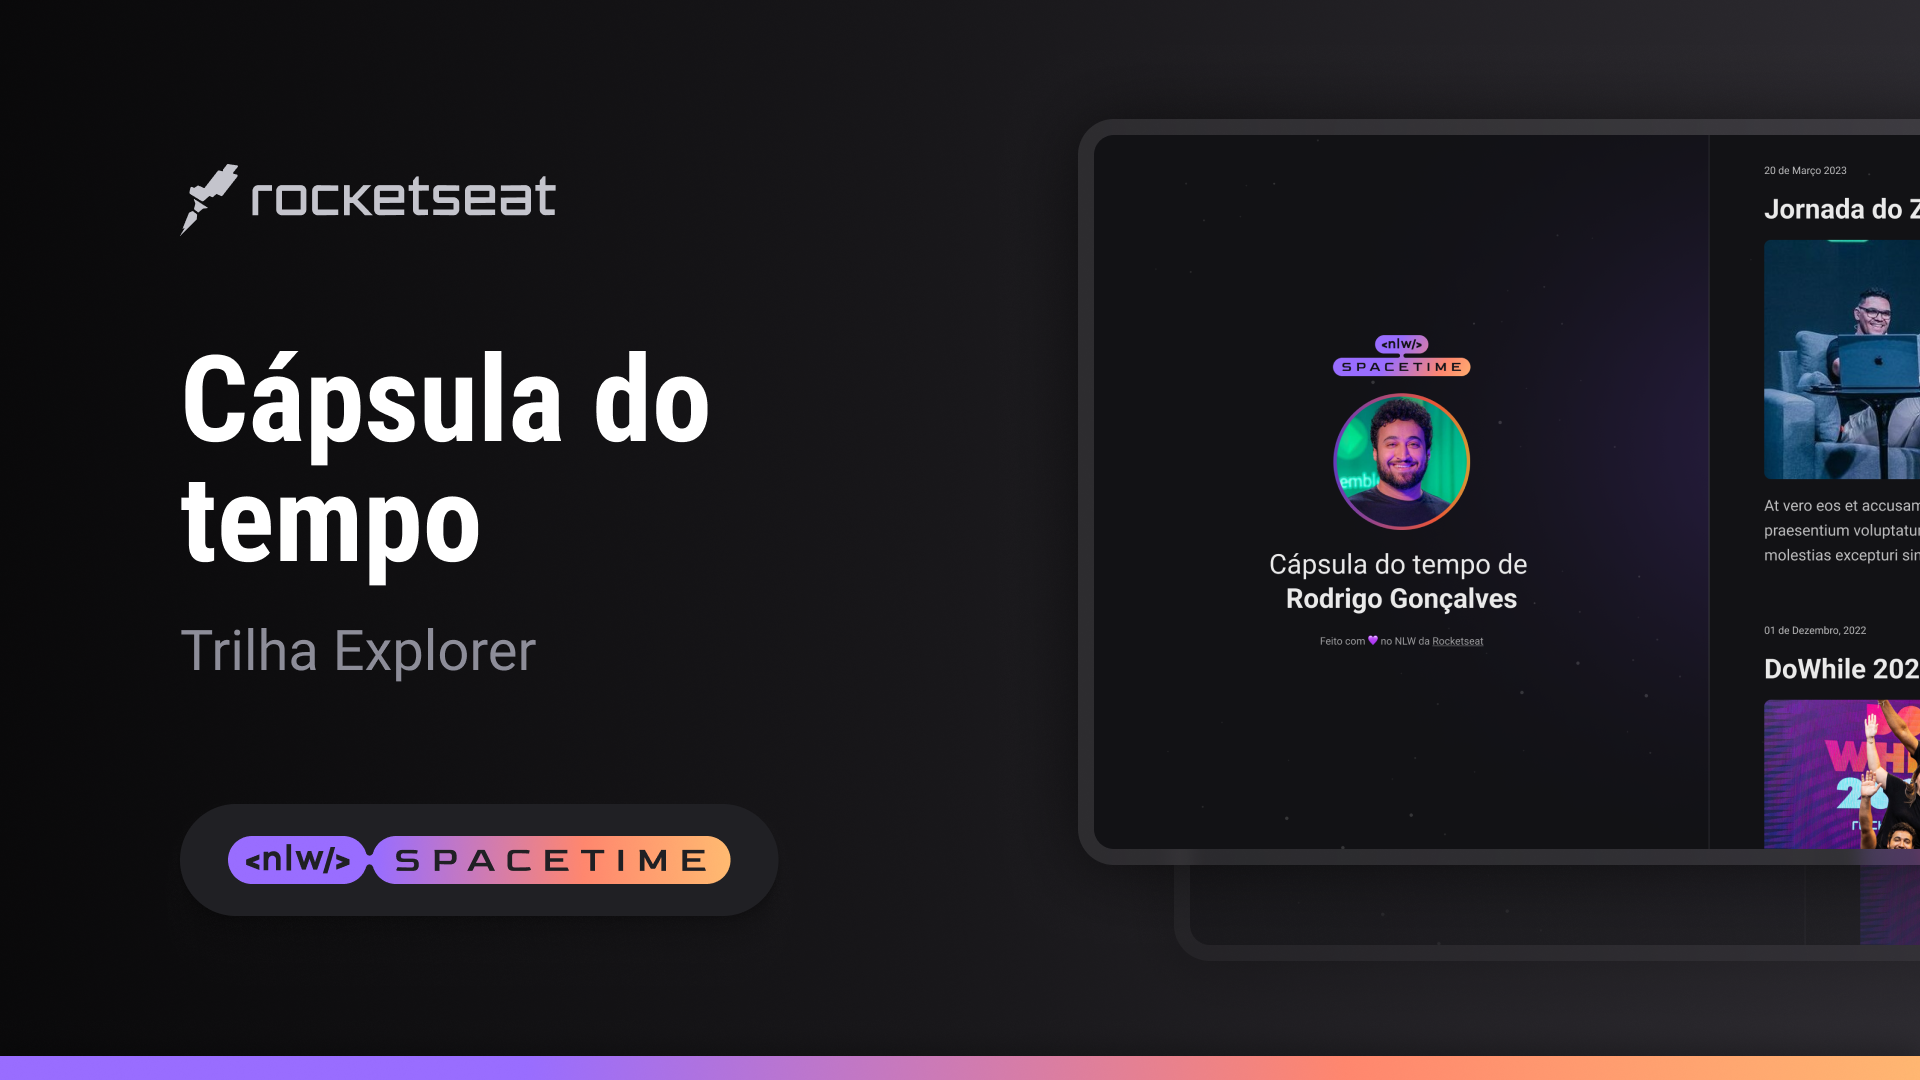
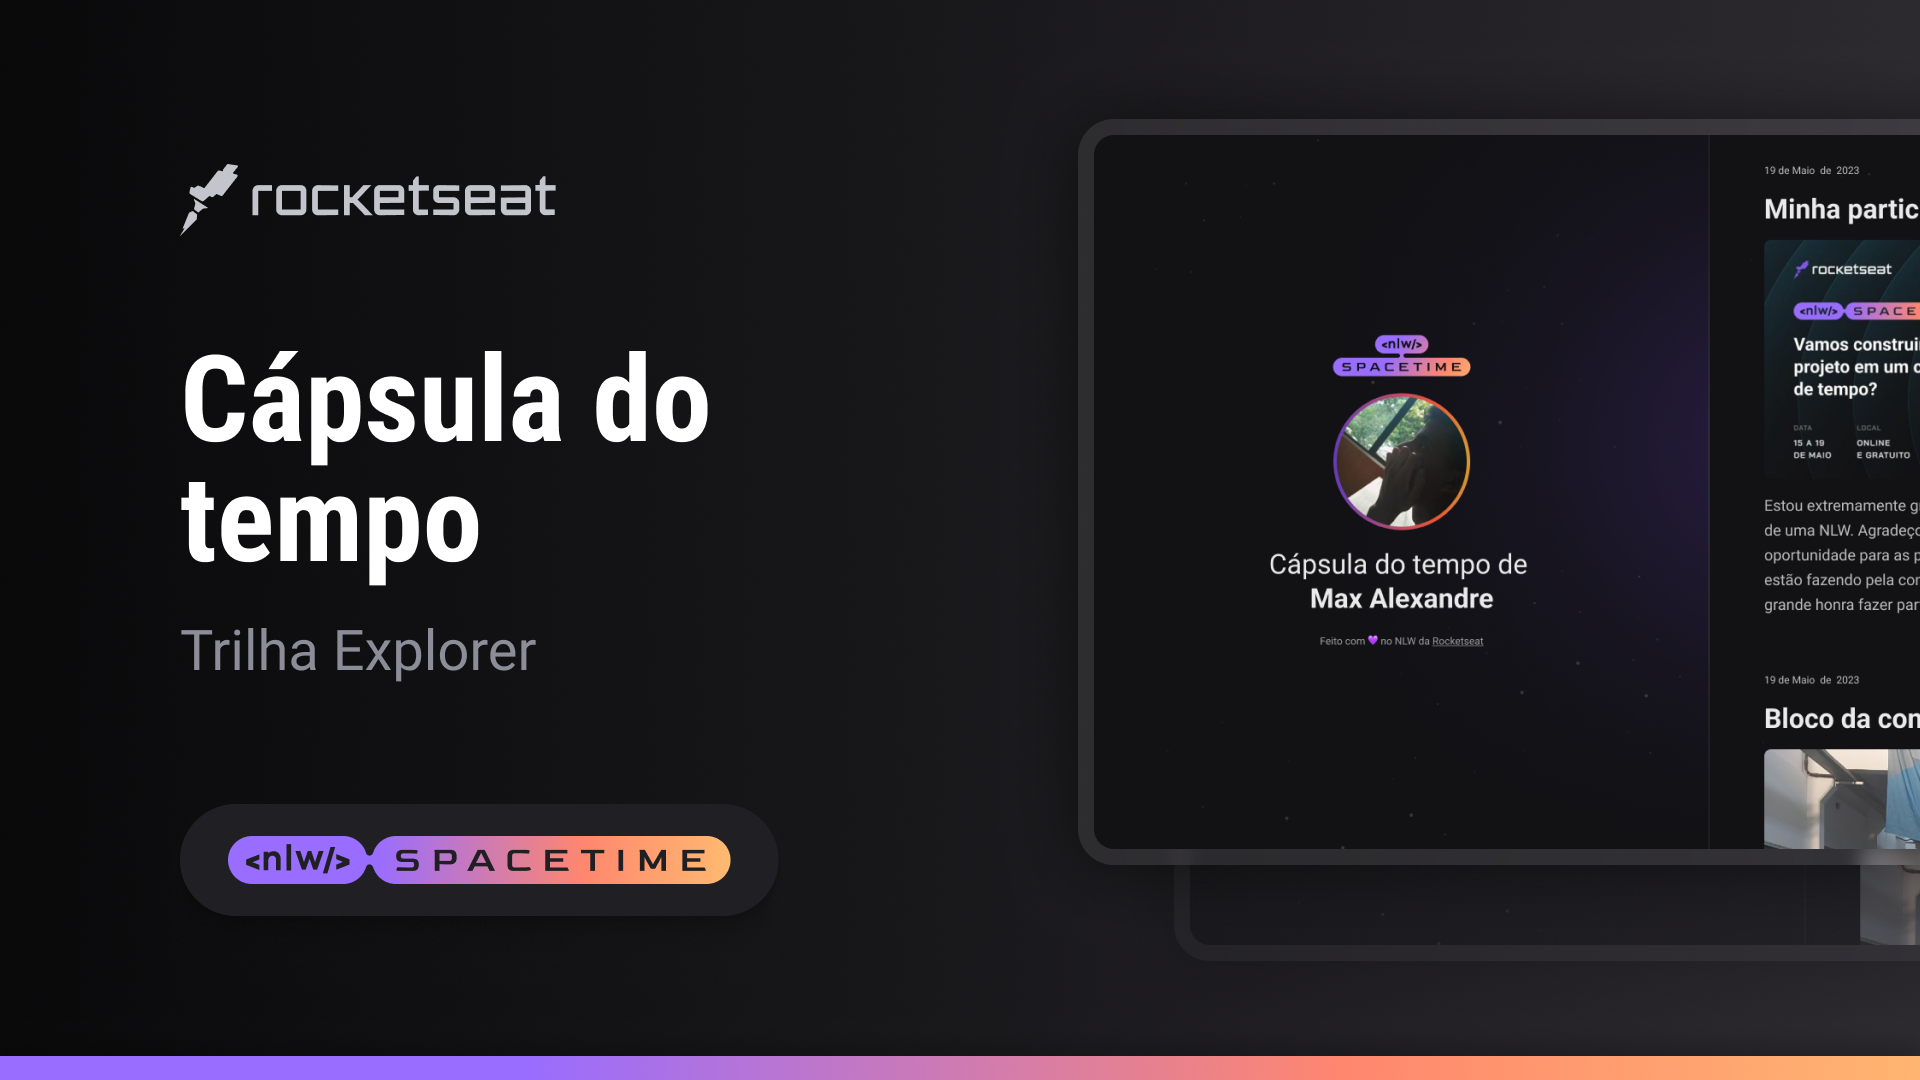
Adding items to the timeline

Changed region(s): [[0.9062, 0.1528, 1.0, 0.8861], [0.6875, 0.3667, 0.7812, 0.4889], [0.6562, 0.55, 0.7812, 0.5806]]

diff --git a/index.html b/index.html
@@ -21,7 +21,7 @@
   <body>
     <aside>
       <img src="./assets/logo.svg" alt="Logo NLW Spacetime" />
-      <img src="./assets/me.jpg" alt="Foto do Rodrigo" />
+      <img src="./assets/me.jpg" alt="it's me Max" />
 
       <p>
         Cápsula do tempo de <br />
@@ -39,49 +39,46 @@
     </aside>
     <nav>
       <div class="memory">
-        <small>16 de Maio de 2023</small>
-        <h1>Jornada do Zero à Primeira Vaga</h1>
+        <small>19 de Maio de 2023</small>
+        <h1>Minha participação na NLW</h1>
         <a
-          href="https://www.youtube.com/watch?v=3nz5HkUJaVU"
+          href="https://rocketseat.com.br/nlw/convite/max-29365"
           target="_blank"
-          aria-label="Assistir ao vídeo da Jornada do Zero à Primeira Vaga"
+          aria-label="link para inscrição na nlw"
         >
           <div>
-            <img src="./assets/jornada.png" alt="Professores da Rocketseat" />
+            <img src="./assets/nlw.jpg" alt="NLW Rocketseat" />
           </div>
         </a>
         <p>
-          Lorem ipsum, dolor sit amet consectetur adipisicing elit. Beatae,
-          repellat, architecto sed sunt asperiores officiis eum libero deserunt
-          provident corporis, optio quidem. Rem quibusdam magni possimus
-          delectus deserunt esse ipsum.
+          Estou extremamente grato por ter participado da minha segunda edição
+          de uma NLW. Agradeço imensamente à Rockseat por proporcionar essa
+          oportunidade para as pessoas. Tenho certeza de que o trabalho que eles
+          estão fazendo pela comunidade é de imenso valor e ajuda. Foi uma
+          grande honra fazer parte dessa edição.
         </p>
       </div>
       <div class="memory">
-        <small>16 de Maio de 2023</small>
+        <small>19 de Maio de 2023</small>
         <h1>Bloco da computação na UFT</h1>
         <div>
           <img src="./assets/uft.jpeg" alt="Bloco da computação na UFT" />
         </div>
         <p>
-          Lorem ipsum, dolor sit amet consectetur adipisicing elit. Beatae,
-          repellat, architecto sed sunt asperiores officiis eum libero deserunt
-          provident corporis, optio quidem. Rem quibusdam magni possimus
-          delectus deserunt esse ipsum.
+          Este bloco representa uma parte importante da minha jornada, vim outro
+          estado para cursar Ciência da Computação na Universidade Federal do
+          Tocantins em Palmas-TO, antes de me mudar eu estava cursando Ciências
+          Biológicas e agora estou prestes a me formar em Ciência da Computação,
+          estou meu último semestre (assim espero rs).
         </p>
       </div>
       <div class="memory">
-        <small>16 de Maio de 2023</small>
-        <h1>Meu gato Shiro</h1>
+        <small>19 de Maio de 2023</small>
+        <h1>Nada mais nada menos que o Shiro!</h1>
         <div>
           <img src="./assets/shiro.jpeg" alt="Shiro" />
         </div>
-        <p>
-          Lorem ipsum, dolor sit amet consectetur adipisicing elit. Beatae,
-          repellat, architecto sed sunt asperiores officiis eum libero deserunt
-          provident corporis, optio quidem. Rem quibusdam magni possimus
-          delectus deserunt esse ipsum.
-        </p>
+        <p>Meu lindo gatinho, que se chama Shiro.</p>
       </div>
     </nav>
   </body>

diff --git a/README.md b/README.md
@@ -3,10 +3,12 @@
   projeto" width="100%" />
 </p>
 
-## 💻 Projeto 
+## 💻 Projeto
+
 Esse é um projeto web Responsivo de uma cápsula do tempo para exibir memórias em uma linha do tempo.
 
 ## 🚀 Tecnologias
+
 Esse projeto foi desenvolvido durante a NLW da Rocketseat com as seguintes tecnologias.
 
 - HTML
@@ -14,6 +16,7 @@ Esse projeto foi desenvolvido durante a NLW da Rocketseat com as seguintes tecno
 - Git e Github
 
 ## 🏷 Layout
-Você pode vizualizar o layout do projeto atráves 
+
+Você pode vizualizar o layout do projeto atráves
 [desse link](https://www.figma.com/file/yFh6R2QWYsrmUqIVmdsgAk/C%C3%A1psula-do-tempo-%E2%80%A2-Trilha-Explorer?type=design&node-id=306%3A84&t=bpkmE8idPUTpW5Jd-1).
 É necessário ter uma conta no [Figma](https://www.figma.com)
